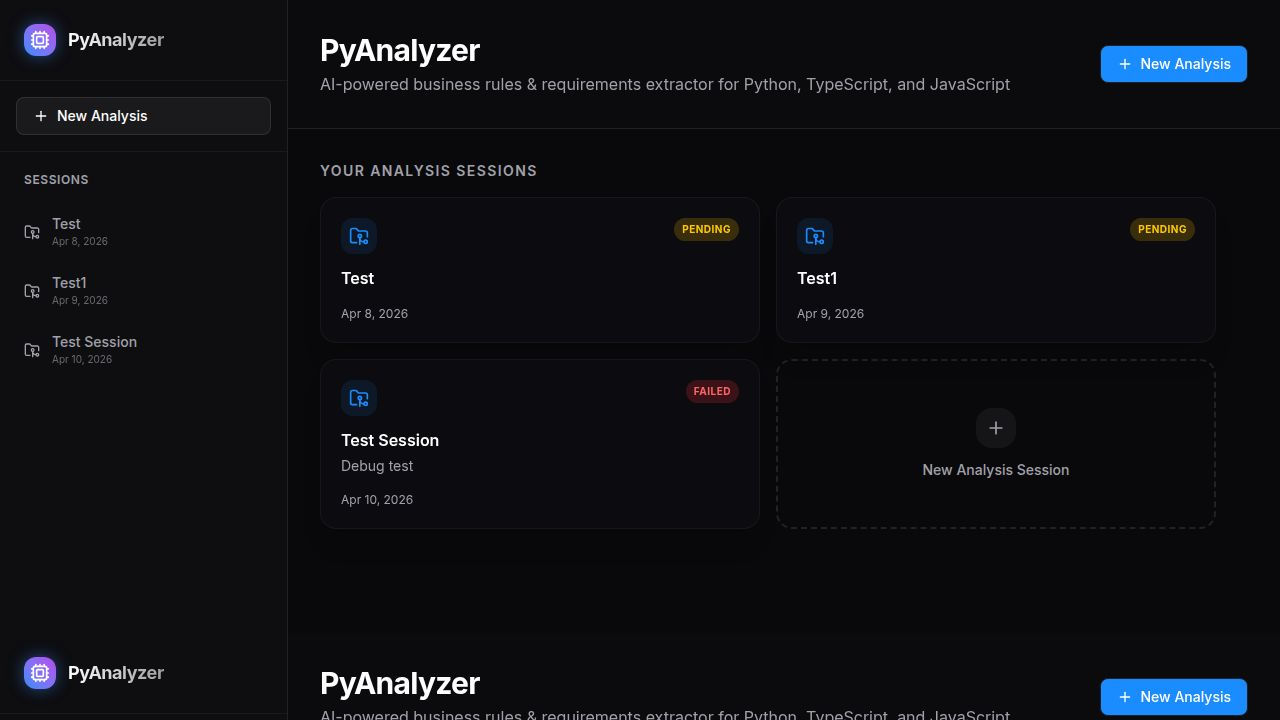
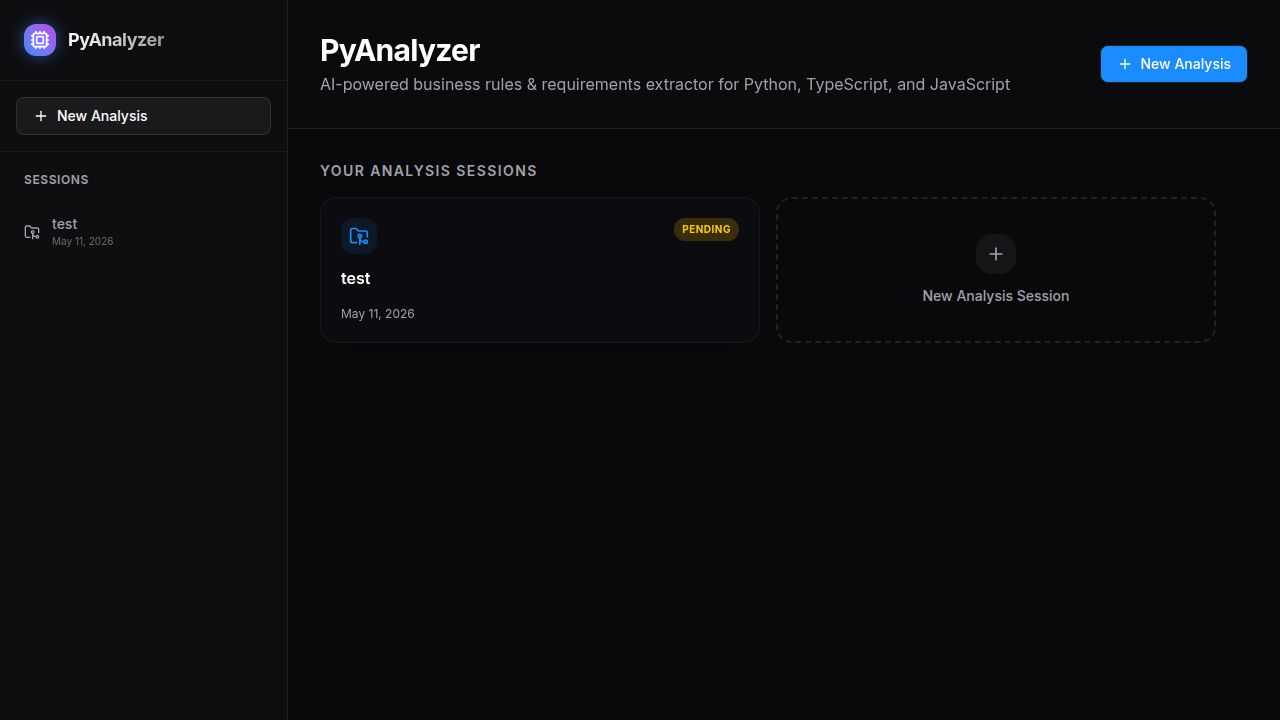
Update application to accept full GitHub URLs and support more languages
Consolidate GitHub URL input into a single field and broaden language support across UI components.

Replit-Commit-Author: Agent
Replit-Commit-Session-Id: 4bfe16a4-7093-472b-a0e3-7b0dd61162d5
Replit-Commit-Checkpoint-Type: full_checkpoint
Replit-Commit-Event-Id: 5278a902-c78a-46a6-a034-91b68aa64c8f
Replit-Commit-Screenshot-Url: https://storage.googleapis.com/screenshot-production-us-central1/d3d928dd-7aea-4894-b9ab-304f6ae16e8e/4bfe16a4-7093-472b-a0e3-7b0dd61162d5/b9y8cIZ
Replit-Helium-Checkpoint-Created: true

diff --git a/artifacts/java-modernization/src/components/analysis/RepositoriesTab.tsx b/artifacts/java-modernization/src/components/analysis/RepositoriesTab.tsx
@@ -11,7 +11,7 @@ import { zodResolver } from "@hookform/resolvers/zod";
 import * as z from "zod";
 import {
   FileCode, Trash2, Plus, Code, Github,
-  AlertCircle, CheckCircle2, Loader2, FolderGit2, ArrowRight, X, Lock, GitBranch, ChevronDown, ChevronUp
+  AlertCircle, CheckCircle2, Loader2, FolderGit2, ArrowRight, X, Lock, ChevronDown, ChevronUp
 } from "lucide-react";
 import { motion, AnimatePresence } from "framer-motion";
 import { useToast } from "@/hooks/use-toast";
@@ -181,7 +181,7 @@ export function RepositoriesTab({ analysisId, onRepoAdded }: Props) {
         <div>
           <h3 className="text-xl font-semibold text-white">Repositories</h3>
           <p className="text-sm text-muted-foreground mt-1">
-            Import one or more backend repos (Python · TypeScript · JavaScript) to analyze together.
+            Import one or more backend repos (Python · Go · Java · Rust · TypeScript · Ruby · and more) to analyze together.
           </p>
         </div>
         {addMode === "none" && (
@@ -250,54 +250,21 @@ export function RepositoriesTab({ analysisId, onRepoAdded }: Props) {
                 </Button>
               </div>
 
-              {/* Format guide */}
-              <div className="mx-6 mt-5 mb-1 flex items-start gap-3 bg-white/[0.03] border border-white/8 rounded-lg px-4 py-3">
-                <Github className="w-4 h-4 text-primary mt-0.5 shrink-0" />
-                <div className="text-xs text-muted-foreground leading-relaxed">
-                  <span className="text-white/70 font-medium">Accepted URL formats:</span>
-                  <div className="mt-1.5 space-y-0.5 font-mono">
-                    <div><span className="text-primary/80">https://github.com/</span><span className="text-white/60">owner/repo</span></div>
-                    <div><span className="text-primary/80">https://github.com/</span><span className="text-white/60">owner/repo/tree/main</span></div>
-                    <div><span className="text-primary/80">https://github.com/</span><span className="text-white/60">owner/repo/tree/dev</span></div>
-                  </div>
-                  <p className="mt-2 text-white/40">
-                    For <span className="text-yellow-400/80">private repos</span>, expand "Private repo" below each URL to add your GitHub token
-                    (<code className="text-white/50">ghp_…</code> or fine-grained PAT with <code className="text-white/50">Contents: Read</code> scope).
-                  </p>
-                </div>
-              </div>
-
-              <div className="p-6 space-y-4">
+              <div className="p-6 space-y-3">
                 {entries.map((entry, idx) => (
                   <div key={idx} className="rounded-xl border border-white/8 bg-black/20 overflow-hidden">
                     {/* Main row */}
                     <div className="flex gap-2 p-3">
-                      <div className="flex-1 flex gap-2 min-w-0">
-                        {/* URL */}
-                        <div className="flex-1 min-w-0">
-                          <div className="relative">
-                            <Github className="absolute left-3 top-1/2 -translate-y-1/2 w-4 h-4 text-muted-foreground pointer-events-none" />
-                            <Input
-                              placeholder="https://github.com/owner/repo"
-                              value={entry.url}
-                              onChange={e => updateEntry(idx, { url: e.target.value, status: "idle", error: undefined })}
-                              className="bg-black/30 border-white/10 font-mono text-sm pl-9 w-full"
-                              disabled={entry.status === "fetching" || entry.status === "saved"}
-                            />
-                          </div>
-                        </div>
-                        {/* Branch */}
-                        <div className="w-36 shrink-0">
-                          <div className="relative">
-                            <GitBranch className="absolute left-3 top-1/2 -translate-y-1/2 w-3.5 h-3.5 text-muted-foreground pointer-events-none" />
-                            <Input
-                              placeholder="branch"
-                              value={entry.branch}
-                              onChange={e => updateEntry(idx, { branch: e.target.value })}
-                              className="bg-black/30 border-white/10 text-sm pl-8 w-full"
-                              disabled={entry.status === "fetching" || entry.status === "saved"}
-                            />
-                          </div>
+                      <div className="flex-1 min-w-0">
+                        <div className="relative">
+                          <Github className="absolute left-3 top-1/2 -translate-y-1/2 w-4 h-4 text-muted-foreground pointer-events-none" />
+                          <Input
+                            placeholder="https://github.com/owner/repo  or  …/tree/branchname"
+                            value={entry.url}
+                            onChange={e => updateEntry(idx, { url: e.target.value, status: "idle", error: undefined })}
+                            className="bg-black/30 border-white/10 font-mono text-sm pl-9 w-full"
+                            disabled={entry.status === "fetching" || entry.status === "saved"}
+                          />
                         </div>
                       </div>
 
@@ -486,7 +453,7 @@ export function RepositoriesTab({ analysisId, onRepoAdded }: Props) {
                           <FormLabel>Backend Source Code</FormLabel>
                           <FormControl>
                             <Textarea
-                              placeholder="Paste Python, TypeScript, or JavaScript backend code here..."
+                              placeholder="Paste backend source code here (Python, Go, Java, Rust, TypeScript, Ruby…)"
                               className="h-56 font-mono text-xs bg-black/50 border-white/10 resize-y"
                               {...field}
                             />

diff --git a/artifacts/java-modernization/src/components/CreateAnalysisDialog.tsx b/artifacts/java-modernization/src/components/CreateAnalysisDialog.tsx
@@ -44,7 +44,7 @@ export default function CreateAnalysisDialog({ open, onOpenChange }: Props) {
         <DialogHeader>
           <DialogTitle>Create Analysis Session</DialogTitle>
           <DialogDescription>
-            Start a new Python codebase analysis. You can import repositories in the next step.
+            Start a new codebase analysis. Import repositories from GitHub or paste code in the next step.
           </DialogDescription>
         </DialogHeader>
         
@@ -70,7 +70,7 @@ export default function CreateAnalysisDialog({ open, onOpenChange }: Props) {
                 <FormItem>
                   <FormLabel>Description (Optional)</FormLabel>
                   <FormControl>
-                    <Textarea placeholder="Context about this Python codebase..." className="resize-none bg-black/20" {...field} />
+                    <Textarea placeholder="Context about this codebase (optional)..." className="resize-none bg-black/20" {...field} />
                   </FormControl>
                   <FormMessage />
                 </FormItem>

diff --git a/artifacts/java-modernization/src/pages/Home.tsx b/artifacts/java-modernization/src/pages/Home.tsx
@@ -29,7 +29,7 @@ export default function Home() {
             <div>
               <h1 className="text-3xl font-bold text-white tracking-tight">PyAnalyzer</h1>
               <p className="text-muted-foreground mt-1">
-                AI-powered business rules &amp; requirements extractor for Python, TypeScript, and JavaScript
+                AI-powered business rules &amp; requirements extractor for any backend codebase
               </p>
             </div>
             <Button onClick={() => setCreateOpen(true)} className="gap-2">
@@ -101,7 +101,7 @@ export default function Home() {
                 </div>
                 <h2 className="text-3xl font-bold tracking-tight text-white">Welcome to PyAnalyzer</h2>
                 <p className="text-muted-foreground text-lg leading-relaxed">
-                  Analyze Python, TypeScript, and JavaScript repositories with AI to extract business rules and generate structured requirements.
+                  Analyze any backend repository — Python, Go, Java, Rust, TypeScript, Ruby, and more — with AI to extract business rules and generate structured requirements.
                 </p>
                 <div className="pt-2">
                   <Button size="lg" onClick={() => setCreateOpen(true)} className="gap-2">